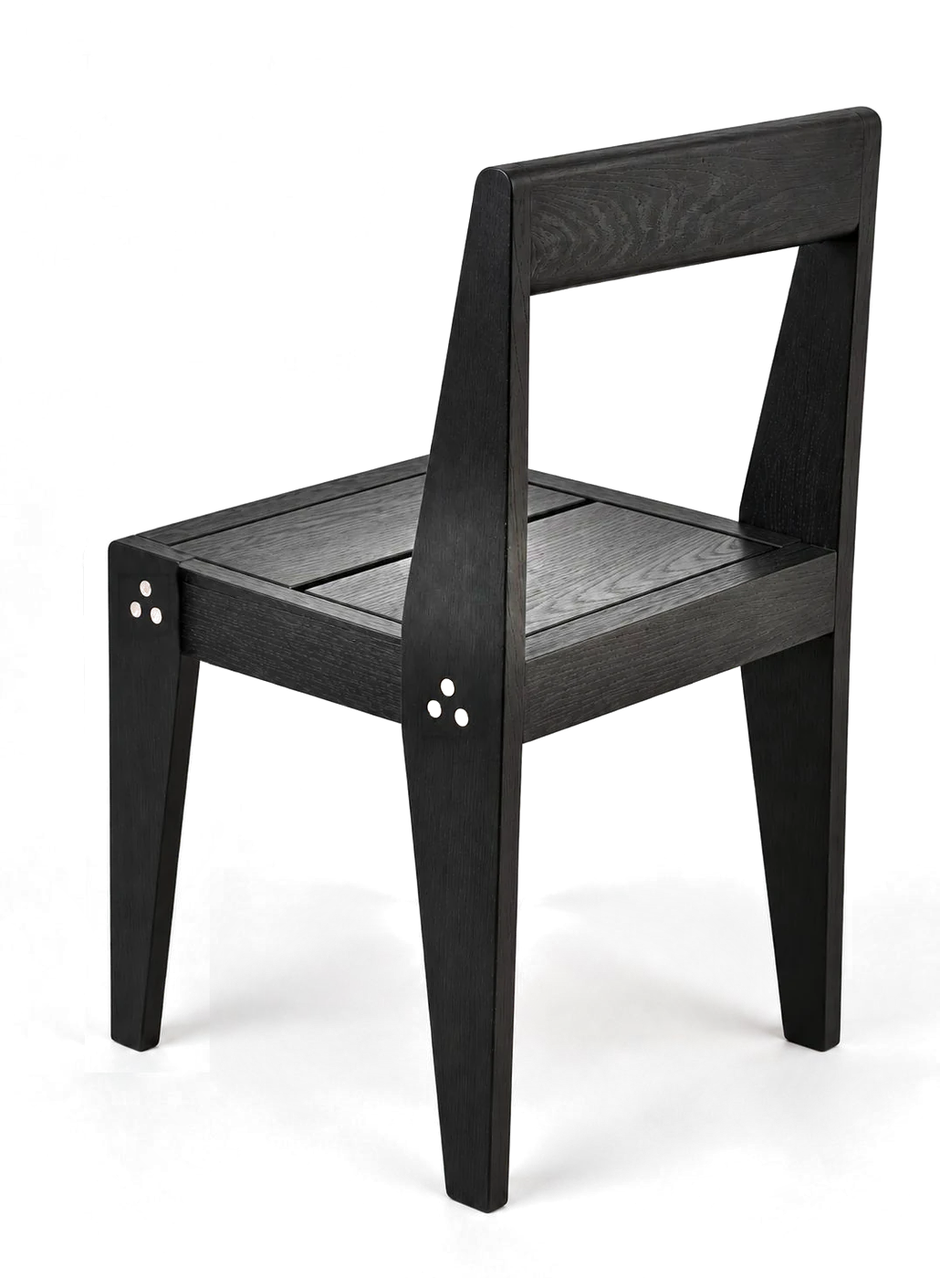
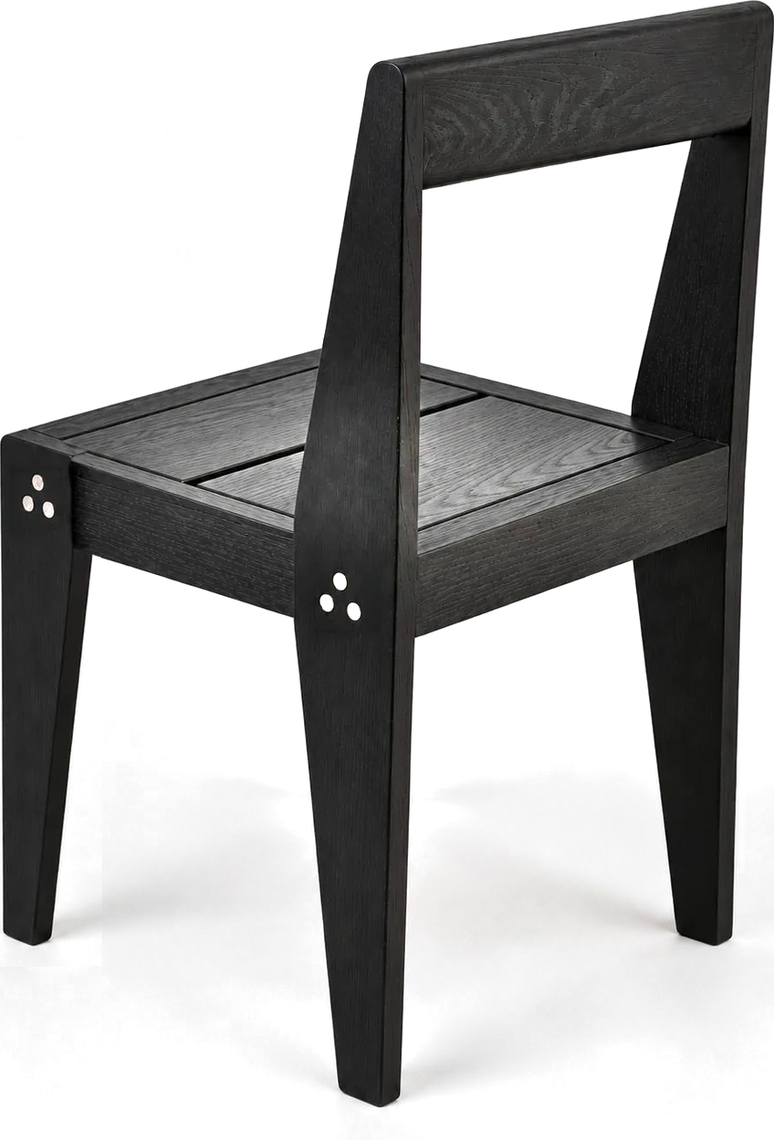
Collection: show the pieces at believable sizes relative to each other
Claude-Session: https://claude.ai/code/session_019aGK6dFBr7KVPox61mVAMt

diff --git a/collection.html b/collection.html
@@ -26,8 +26,8 @@
 .c-grid{display:grid;grid-template-columns:repeat(2,minmax(0,1fr));gap:clamp(36px,5vw,64px) clamp(16px,3vw,40px)}
 @media (min-width:900px){.c-grid{grid-template-columns:repeat(3,minmax(0,1fr))}}
 .c-piece{display:grid;grid-template-columns:auto 1fr;gap:4px 12px;text-decoration:none;color:inherit;align-content:start}
-.c-img{grid-column:1/-1;display:block;aspect-ratio:4/3;margin-bottom:14px}
-.c-img img{width:86%;height:86%;margin:7% auto 0;object-fit:contain;object-position:center bottom;display:block}
+.c-img{grid-column:1/-1;display:flex;align-items:flex-end;justify-content:center;aspect-ratio:4/3;margin-bottom:14px;padding-bottom:4%}
+.c-img img{width:86%;height:auto;max-height:90%;object-fit:contain;display:block}
 .c-n{font:500 11px/26px var(--mono);color:var(--ink-muted)}
 .c-name{font-size:clamp(22px,2.4vw,30px);line-height:1.05}
 .c-use,.c-dim{grid-column:2;font:400 12px/18px var(--mono);color:var(--ink-muted)}
@@ -38,8 +38,8 @@
 .h-grid{display:grid;grid-template-columns:repeat(2,minmax(0,1fr));gap:clamp(28px,4vw,56px) clamp(16px,3vw,40px)}
 @media (min-width:900px){.h-grid{grid-template-columns:repeat(4,minmax(0,1fr))}}
 .h-piece{display:grid;gap:12px;align-content:start;text-decoration:none;color:inherit}
-.h-img{display:block;aspect-ratio:4/3}
-.h-img img{width:86%;height:86%;margin:7% auto 0;object-fit:contain;object-position:center bottom;display:block}
+.h-img{display:flex;align-items:flex-end;justify-content:center;aspect-ratio:4/3;padding-bottom:4%}
+.h-img img{width:86%;height:auto;max-height:90%;object-fit:contain;display:block}
 .h-name{font:500 12px/16px var(--mono);letter-spacing:.08em;text-transform:uppercase}
 .h-piece:hover .h-name{text-decoration:underline;text-underline-offset:4px}
 .h-door-grid{display:grid;gap:clamp(28px,4vw,40px)}
@@ -585,7 +585,7 @@ footer{border-top:1px solid var(--ink);padding-block:48px}
  <p class="pull" style="margin-top:24px;max-width:46ch">Satu means one in Indonesian. One material, one system, one idea carried through every piece. The collection is made from repurposed teak, timber that has already lived a life, often in old joglo houses, and given another through Danish design and Indonesian hands.</p>
 </div></section>
 <section class="c-grid-sec" style="padding-top:0;border-top:0"><div class="wrap">
- <div class="c-grid"><a class="c-piece" href="the-chair.html"><span class="c-img"><img src="assets/cut-chair-rear.webp" alt="The Chair, chair in reclaimed teak with a Shou Sugi Ban finish" loading="eager"></span><span class="c-n">01</span><span class="c-name disp">The Chair</span><span class="c-use">Dining rooms, restaurants and terraces</span><span class="c-dim">H 80 / W 45 / L 45 cm</span></a><a class="c-piece" href="the-sun-lounger.html"><span class="c-img"><img src="assets/cut-sunlounger-render.webp" alt="The Sun Lounger, lounger in reclaimed teak with a Shou Sugi Ban finish" loading="eager"></span><span class="c-n">02</span><span class="c-name disp">The Sun Lounger</span><span class="c-use">Poolside and outdoors</span><span class="c-dim">H 32 / W 75 / L 211 cm</span></a><a class="c-piece" href="the-bench.html"><span class="c-img"><img src="assets/cut-bench.webp" alt="The Bench, bench in reclaimed teak with a Shou Sugi Ban finish" loading="eager"></span><span class="c-n">03</span><span class="c-name disp">The Bench</span><span class="c-use">Dining tables, terraces and halls</span><span class="c-dim">H 45 / W 206 / L 40 cm</span></a><a class="c-piece" href="the-lounge-chair.html"><span class="c-img"><img src="assets/cut-loungechair-studio.webp" alt="The Lounge Chair, lounge chair in reclaimed teak with a Shou Sugi Ban finish" loading="lazy"></span><span class="c-n">04</span><span class="c-name disp">The Lounge Chair</span><span class="c-use">Lounges, lobbies and terraces</span><span class="c-dim">H 78 / W 68 / L 60 cm</span></a><a class="c-piece" href="the-side-table.html"><span class="c-img"><img src="assets/cut-sidetable.webp" alt="The Side Table, table in reclaimed teak with a Shou Sugi Ban finish" loading="lazy"></span><span class="c-n">05</span><span class="c-name disp">The Side Table</span><span class="c-use">Poolside, terraces and lounges</span><span class="c-dim">H 32 / W 75 / L 75 cm</span></a><a class="c-piece" href="the-coffee-table.html"><span class="c-img"><img src="assets/cut-table-studio.webp" alt="The Coffee Table, table in reclaimed teak with a Shou Sugi Ban finish" loading="lazy"></span><span class="c-n">06</span><span class="c-name disp">The Coffee Table</span><span class="c-use">Lounges, lobbies and terraces</span><span class="c-dim">H 32 / W 75 / L 100 cm</span></a><a class="c-piece" href="the-table.html"><span class="c-img"><img src="assets/cut-table.webp" alt="The Table, table in reclaimed teak with a Shou Sugi Ban finish" loading="lazy"></span><span class="c-n">07</span><span class="c-name disp">The Table</span><span class="c-use">Dining rooms and restaurants</span><span class="c-dim">H 75 / W 100 / L 220 cm</span></a></div>
+ <div class="c-grid"><a class="c-piece" href="the-chair.html"><span class="c-img"><img style="width:27%" src="assets/cut-chair-rear.webp" alt="The Chair, chair in reclaimed teak with a Shou Sugi Ban finish" loading="eager"></span><span class="c-n">01</span><span class="c-name disp">The Chair</span><span class="c-use">Dining rooms, restaurants and terraces</span><span class="c-dim">H 80 / W 45 / L 45 cm</span></a><a class="c-piece" href="the-sun-lounger.html"><span class="c-img"><img style="width:83%" src="assets/cut-sunlounger-render.webp" alt="The Sun Lounger, lounger in reclaimed teak with a Shou Sugi Ban finish" loading="eager"></span><span class="c-n">02</span><span class="c-name disp">The Sun Lounger</span><span class="c-use">Poolside and outdoors</span><span class="c-dim">H 32 / W 75 / L 211 cm</span></a><a class="c-piece" href="the-bench.html"><span class="c-img"><img style="width:80%" src="assets/cut-bench.webp" alt="The Bench, bench in reclaimed teak with a Shou Sugi Ban finish" loading="eager"></span><span class="c-n">03</span><span class="c-name disp">The Bench</span><span class="c-use">Dining tables, terraces and halls</span><span class="c-dim">H 45 / W 206 / L 40 cm</span></a><a class="c-piece" href="the-lounge-chair.html"><span class="c-img"><img style="width:33%" src="assets/cut-loungechair-studio.webp" alt="The Lounge Chair, lounge chair in reclaimed teak with a Shou Sugi Ban finish" loading="lazy"></span><span class="c-n">04</span><span class="c-name disp">The Lounge Chair</span><span class="c-use">Lounges, lobbies and terraces</span><span class="c-dim">H 78 / W 68 / L 60 cm</span></a><a class="c-piece" href="the-side-table.html"><span class="c-img"><img style="width:26%" src="assets/cut-sidetable.webp" alt="The Side Table, table in reclaimed teak with a Shou Sugi Ban finish" loading="lazy"></span><span class="c-n">05</span><span class="c-name disp">The Side Table</span><span class="c-use">Poolside, terraces and lounges</span><span class="c-dim">H 32 / W 75 / L 75 cm</span></a><a class="c-piece" href="the-coffee-table.html"><span class="c-img"><img style="width:35%" src="assets/cut-table-studio.webp" alt="The Coffee Table, table in reclaimed teak with a Shou Sugi Ban finish" loading="lazy"></span><span class="c-n">06</span><span class="c-name disp">The Coffee Table</span><span class="c-use">Lounges, lobbies and terraces</span><span class="c-dim">H 32 / W 75 / L 100 cm</span></a><a class="c-piece" href="the-table.html"><span class="c-img"><img style="width:85%" src="assets/cut-table.webp" alt="The Table, table in reclaimed teak with a Shou Sugi Ban finish" loading="lazy"></span><span class="c-n">07</span><span class="c-name disp">The Table</span><span class="c-use">Dining rooms and restaurants</span><span class="c-dim">H 75 / W 100 / L 220 cm</span></a></div>
 </div></section>
 <figure class="bleed"><img src="assets/chair-light.jpg" alt="The Chair in a beam of window light, dust in the air and the grain of the seat lit up" width="1800" height="1434" loading=lazy></figure>
 <section><div class="wrap split">

diff --git a/index.html b/index.html
@@ -26,8 +26,8 @@
 .c-grid{display:grid;grid-template-columns:repeat(2,minmax(0,1fr));gap:clamp(36px,5vw,64px) clamp(16px,3vw,40px)}
 @media (min-width:900px){.c-grid{grid-template-columns:repeat(3,minmax(0,1fr))}}
 .c-piece{display:grid;grid-template-columns:auto 1fr;gap:4px 12px;text-decoration:none;color:inherit;align-content:start}
-.c-img{grid-column:1/-1;display:block;aspect-ratio:4/3;margin-bottom:14px}
-.c-img img{width:86%;height:86%;margin:7% auto 0;object-fit:contain;object-position:center bottom;display:block}
+.c-img{grid-column:1/-1;display:flex;align-items:flex-end;justify-content:center;aspect-ratio:4/3;margin-bottom:14px;padding-bottom:4%}
+.c-img img{width:86%;height:auto;max-height:90%;object-fit:contain;display:block}
 .c-n{font:500 11px/26px var(--mono);color:var(--ink-muted)}
 .c-name{font-size:clamp(22px,2.4vw,30px);line-height:1.05}
 .c-use,.c-dim{grid-column:2;font:400 12px/18px var(--mono);color:var(--ink-muted)}
@@ -38,8 +38,8 @@
 .h-grid{display:grid;grid-template-columns:repeat(2,minmax(0,1fr));gap:clamp(28px,4vw,56px) clamp(16px,3vw,40px)}
 @media (min-width:900px){.h-grid{grid-template-columns:repeat(4,minmax(0,1fr))}}
 .h-piece{display:grid;gap:12px;align-content:start;text-decoration:none;color:inherit}
-.h-img{display:block;aspect-ratio:4/3}
-.h-img img{width:86%;height:86%;margin:7% auto 0;object-fit:contain;object-position:center bottom;display:block}
+.h-img{display:flex;align-items:flex-end;justify-content:center;aspect-ratio:4/3;padding-bottom:4%}
+.h-img img{width:86%;height:auto;max-height:90%;object-fit:contain;display:block}
 .h-name{font:500 12px/16px var(--mono);letter-spacing:.08em;text-transform:uppercase}
 .h-piece:hover .h-name{text-decoration:underline;text-underline-offset:4px}
 .h-door-grid{display:grid;gap:clamp(28px,4vw,40px)}
@@ -568,7 +568,7 @@ footer{border-top:1px solid var(--ink);padding-block:48px}
 <section class="h-pieces"><div class="wrap">
  <div class="h-head"><div><span class="label eyebrow muted">Collection</span><h2 class="disp">SATU. Seven pieces, one system.</h2></div>
   <div class="h-nav"><button type="button" class="h-arrow" data-dir="-1" aria-label="Previous pieces">&#8592;</button><button type="button" class="h-arrow" data-dir="1" aria-label="Next pieces">&#8594;</button></div></div>
- <div class="h-track" id="h-track"><a class="h-piece" href="the-chair.html"><span class="h-img"><img src="assets/cut-chair-rear.webp" alt="The Chair, chair in reclaimed teak" loading="lazy"></span><span class="h-name">The Chair</span><span class="h-meta">H 80 / W 45 / L 45 cm</span></a><a class="h-piece" href="the-sun-lounger.html"><span class="h-img"><img src="assets/cut-sunlounger-render.webp" alt="The Sun Lounger, lounger in reclaimed teak" loading="lazy"></span><span class="h-name">The Sun Lounger</span><span class="h-meta">H 32 / W 75 / L 211 cm</span></a><a class="h-piece" href="the-bench.html"><span class="h-img"><img src="assets/cut-bench.webp" alt="The Bench, bench in reclaimed teak" loading="lazy"></span><span class="h-name">The Bench</span><span class="h-meta">H 45 / W 206 / L 40 cm</span></a><a class="h-piece" href="the-lounge-chair.html"><span class="h-img"><img src="assets/cut-loungechair-studio.webp" alt="The Lounge Chair, lounge chair in reclaimed teak" loading="lazy"></span><span class="h-name">The Lounge Chair</span><span class="h-meta">H 78 / W 68 / L 60 cm</span></a><a class="h-piece" href="the-side-table.html"><span class="h-img"><img src="assets/cut-sidetable.webp" alt="The Side Table, table in reclaimed teak" loading="lazy"></span><span class="h-name">The Side Table</span><span class="h-meta">H 32 / W 75 / L 75 cm</span></a><a class="h-piece" href="the-coffee-table.html"><span class="h-img"><img src="assets/cut-table-studio.webp" alt="The Coffee Table, table in reclaimed teak" loading="lazy"></span><span class="h-name">The Coffee Table</span><span class="h-meta">H 32 / W 75 / L 100 cm</span></a><a class="h-piece" href="the-table.html"><span class="h-img"><img src="assets/cut-table.webp" alt="The Table, table in reclaimed teak" loading="lazy"></span><span class="h-name">The Table</span><span class="h-meta">H 75 / W 100 / L 220 cm</span></a><a class="h-piece h-all" href="collection.html"><span class="h-img"><span class="disp">All of SATU &#8594;</span></span></a></div>
+ <div class="h-track" id="h-track"><a class="h-piece" href="the-chair.html"><span class="h-img"><img style="width:27%" src="assets/cut-chair-rear.webp" alt="The Chair, chair in reclaimed teak" loading="lazy"></span><span class="h-name">The Chair</span><span class="h-meta">H 80 / W 45 / L 45 cm</span></a><a class="h-piece" href="the-sun-lounger.html"><span class="h-img"><img style="width:83%" src="assets/cut-sunlounger-render.webp" alt="The Sun Lounger, lounger in reclaimed teak" loading="lazy"></span><span class="h-name">The Sun Lounger</span><span class="h-meta">H 32 / W 75 / L 211 cm</span></a><a class="h-piece" href="the-bench.html"><span class="h-img"><img style="width:80%" src="assets/cut-bench.webp" alt="The Bench, bench in reclaimed teak" loading="lazy"></span><span class="h-name">The Bench</span><span class="h-meta">H 45 / W 206 / L 40 cm</span></a><a class="h-piece" href="the-lounge-chair.html"><span class="h-img"><img style="width:33%" src="assets/cut-loungechair-studio.webp" alt="The Lounge Chair, lounge chair in reclaimed teak" loading="lazy"></span><span class="h-name">The Lounge Chair</span><span class="h-meta">H 78 / W 68 / L 60 cm</span></a><a class="h-piece" href="the-side-table.html"><span class="h-img"><img style="width:26%" src="assets/cut-sidetable.webp" alt="The Side Table, table in reclaimed teak" loading="lazy"></span><span class="h-name">The Side Table</span><span class="h-meta">H 32 / W 75 / L 75 cm</span></a><a class="h-piece" href="the-coffee-table.html"><span class="h-img"><img style="width:35%" src="assets/cut-table-studio.webp" alt="The Coffee Table, table in reclaimed teak" loading="lazy"></span><span class="h-name">The Coffee Table</span><span class="h-meta">H 32 / W 75 / L 100 cm</span></a><a class="h-piece" href="the-table.html"><span class="h-img"><img style="width:85%" src="assets/cut-table.webp" alt="The Table, table in reclaimed teak" loading="lazy"></span><span class="h-name">The Table</span><span class="h-meta">H 75 / W 100 / L 220 cm</span></a><a class="h-piece h-all" href="collection.html"><span class="h-img"><span class="disp">All of SATU &#8594;</span></span></a></div>
 </div></section>
 <script>(function(){var t=document.getElementById('h-track');if(!t)return;function sp(){t.style.scrollPaddingInline=getComputedStyle(t).paddingLeft;}sp();t.scrollLeft=0;window.addEventListener('resize',sp);document.querySelectorAll('.h-arrow').forEach(function(b){b.addEventListener('click',function(){t.scrollBy({left:(+b.dataset.dir)*t.clientWidth*0.8,behavior:'smooth'});});});})();</script>
 

diff --git a/contact.html b/contact.html
@@ -26,8 +26,8 @@
 .c-grid{display:grid;grid-template-columns:repeat(2,minmax(0,1fr));gap:clamp(36px,5vw,64px) clamp(16px,3vw,40px)}
 @media (min-width:900px){.c-grid{grid-template-columns:repeat(3,minmax(0,1fr))}}
 .c-piece{display:grid;grid-template-columns:auto 1fr;gap:4px 12px;text-decoration:none;color:inherit;align-content:start}
-.c-img{grid-column:1/-1;display:block;aspect-ratio:4/3;margin-bottom:14px}
-.c-img img{width:86%;height:86%;margin:7% auto 0;object-fit:contain;object-position:center bottom;display:block}
+.c-img{grid-column:1/-1;display:flex;align-items:flex-end;justify-content:center;aspect-ratio:4/3;margin-bottom:14px;padding-bottom:4%}
+.c-img img{width:86%;height:auto;max-height:90%;object-fit:contain;display:block}
 .c-n{font:500 11px/26px var(--mono);color:var(--ink-muted)}
 .c-name{font-size:clamp(22px,2.4vw,30px);line-height:1.05}
 .c-use,.c-dim{grid-column:2;font:400 12px/18px var(--mono);color:var(--ink-muted)}
@@ -38,8 +38,8 @@
 .h-grid{display:grid;grid-template-columns:repeat(2,minmax(0,1fr));gap:clamp(28px,4vw,56px) clamp(16px,3vw,40px)}
 @media (min-width:900px){.h-grid{grid-template-columns:repeat(4,minmax(0,1fr))}}
 .h-piece{display:grid;gap:12px;align-content:start;text-decoration:none;color:inherit}
-.h-img{display:block;aspect-ratio:4/3}
-.h-img img{width:86%;height:86%;margin:7% auto 0;object-fit:contain;object-position:center bottom;display:block}
+.h-img{display:flex;align-items:flex-end;justify-content:center;aspect-ratio:4/3;padding-bottom:4%}
+.h-img img{width:86%;height:auto;max-height:90%;object-fit:contain;display:block}
 .h-name{font:500 12px/16px var(--mono);letter-spacing:.08em;text-transform:uppercase}
 .h-piece:hover .h-name{text-decoration:underline;text-underline-offset:4px}
 .h-door-grid{display:grid;gap:clamp(28px,4vw,40px)}

diff --git a/faq.html b/faq.html
@@ -26,8 +26,8 @@
 .c-grid{display:grid;grid-template-columns:repeat(2,minmax(0,1fr));gap:clamp(36px,5vw,64px) clamp(16px,3vw,40px)}
 @media (min-width:900px){.c-grid{grid-template-columns:repeat(3,minmax(0,1fr))}}
 .c-piece{display:grid;grid-template-columns:auto 1fr;gap:4px 12px;text-decoration:none;color:inherit;align-content:start}
-.c-img{grid-column:1/-1;display:block;aspect-ratio:4/3;margin-bottom:14px}
-.c-img img{width:86%;height:86%;margin:7% auto 0;object-fit:contain;object-position:center bottom;display:block}
+.c-img{grid-column:1/-1;display:flex;align-items:flex-end;justify-content:center;aspect-ratio:4/3;margin-bottom:14px;padding-bottom:4%}
+.c-img img{width:86%;height:auto;max-height:90%;object-fit:contain;display:block}
 .c-n{font:500 11px/26px var(--mono);color:var(--ink-muted)}
 .c-name{font-size:clamp(22px,2.4vw,30px);line-height:1.05}
 .c-use,.c-dim{grid-column:2;font:400 12px/18px var(--mono);color:var(--ink-muted)}
@@ -38,8 +38,8 @@
 .h-grid{display:grid;grid-template-columns:repeat(2,minmax(0,1fr));gap:clamp(28px,4vw,56px) clamp(16px,3vw,40px)}
 @media (min-width:900px){.h-grid{grid-template-columns:repeat(4,minmax(0,1fr))}}
 .h-piece{display:grid;gap:12px;align-content:start;text-decoration:none;color:inherit}
-.h-img{display:block;aspect-ratio:4/3}
-.h-img img{width:86%;height:86%;margin:7% auto 0;object-fit:contain;object-position:center bottom;display:block}
+.h-img{display:flex;align-items:flex-end;justify-content:center;aspect-ratio:4/3;padding-bottom:4%}
+.h-img img{width:86%;height:auto;max-height:90%;object-fit:contain;display:block}
 .h-name{font:500 12px/16px var(--mono);letter-spacing:.08em;text-transform:uppercase}
 .h-piece:hover .h-name{text-decoration:underline;text-underline-offset:4px}
 .h-door-grid{display:grid;gap:clamp(28px,4vw,40px)}

diff --git a/hospitality.html b/hospitality.html
@@ -26,8 +26,8 @@
 .c-grid{display:grid;grid-template-columns:repeat(2,minmax(0,1fr));gap:clamp(36px,5vw,64px) clamp(16px,3vw,40px)}
 @media (min-width:900px){.c-grid{grid-template-columns:repeat(3,minmax(0,1fr))}}
 .c-piece{display:grid;grid-template-columns:auto 1fr;gap:4px 12px;text-decoration:none;color:inherit;align-content:start}
-.c-img{grid-column:1/-1;display:block;aspect-ratio:4/3;margin-bottom:14px}
-.c-img img{width:86%;height:86%;margin:7% auto 0;object-fit:contain;object-position:center bottom;display:block}
+.c-img{grid-column:1/-1;display:flex;align-items:flex-end;justify-content:center;aspect-ratio:4/3;margin-bottom:14px;padding-bottom:4%}
+.c-img img{width:86%;height:auto;max-height:90%;object-fit:contain;display:block}
 .c-n{font:500 11px/26px var(--mono);color:var(--ink-muted)}
 .c-name{font-size:clamp(22px,2.4vw,30px);line-height:1.05}
 .c-use,.c-dim{grid-column:2;font:400 12px/18px var(--mono);color:var(--ink-muted)}
@@ -38,8 +38,8 @@
 .h-grid{display:grid;grid-template-columns:repeat(2,minmax(0,1fr));gap:clamp(28px,4vw,56px) clamp(16px,3vw,40px)}
 @media (min-width:900px){.h-grid{grid-template-columns:repeat(4,minmax(0,1fr))}}
 .h-piece{display:grid;gap:12px;align-content:start;text-decoration:none;color:inherit}
-.h-img{display:block;aspect-ratio:4/3}
-.h-img img{width:86%;height:86%;margin:7% auto 0;object-fit:contain;object-position:center bottom;display:block}
+.h-img{display:flex;align-items:flex-end;justify-content:center;aspect-ratio:4/3;padding-bottom:4%}
+.h-img img{width:86%;height:auto;max-height:90%;object-fit:contain;display:block}
 .h-name{font:500 12px/16px var(--mono);letter-spacing:.08em;text-transform:uppercase}
 .h-piece:hover .h-name{text-decoration:underline;text-underline-offset:4px}
 .h-door-grid{display:grid;gap:clamp(28px,4vw,40px)}

diff --git a/in-use.html b/in-use.html
@@ -26,8 +26,8 @@
 .c-grid{display:grid;grid-template-columns:repeat(2,minmax(0,1fr));gap:clamp(36px,5vw,64px) clamp(16px,3vw,40px)}
 @media (min-width:900px){.c-grid{grid-template-columns:repeat(3,minmax(0,1fr))}}
 .c-piece{display:grid;grid-template-columns:auto 1fr;gap:4px 12px;text-decoration:none;color:inherit;align-content:start}
-.c-img{grid-column:1/-1;display:block;aspect-ratio:4/3;margin-bottom:14px}
-.c-img img{width:86%;height:86%;margin:7% auto 0;object-fit:contain;object-position:center bottom;display:block}
+.c-img{grid-column:1/-1;display:flex;align-items:flex-end;justify-content:center;aspect-ratio:4/3;margin-bottom:14px;padding-bottom:4%}
+.c-img img{width:86%;height:auto;max-height:90%;object-fit:contain;display:block}
 .c-n{font:500 11px/26px var(--mono);color:var(--ink-muted)}
 .c-name{font-size:clamp(22px,2.4vw,30px);line-height:1.05}
 .c-use,.c-dim{grid-column:2;font:400 12px/18px var(--mono);color:var(--ink-muted)}
@@ -38,8 +38,8 @@
 .h-grid{display:grid;grid-template-columns:repeat(2,minmax(0,1fr));gap:clamp(28px,4vw,56px) clamp(16px,3vw,40px)}
 @media (min-width:900px){.h-grid{grid-template-columns:repeat(4,minmax(0,1fr))}}
 .h-piece{display:grid;gap:12px;align-content:start;text-decoration:none;color:inherit}
-.h-img{display:block;aspect-ratio:4/3}
-.h-img img{width:86%;height:86%;margin:7% auto 0;object-fit:contain;object-position:center bottom;display:block}
+.h-img{display:flex;align-items:flex-end;justify-content:center;aspect-ratio:4/3;padding-bottom:4%}
+.h-img img{width:86%;height:auto;max-height:90%;object-fit:contain;display:block}
 .h-name{font:500 12px/16px var(--mono);letter-spacing:.08em;text-transform:uppercase}
 .h-piece:hover .h-name{text-decoration:underline;text-underline-offset:4px}
 .h-door-grid{display:grid;gap:clamp(28px,4vw,40px)}

diff --git a/material.html b/material.html
@@ -26,8 +26,8 @@
 .c-grid{display:grid;grid-template-columns:repeat(2,minmax(0,1fr));gap:clamp(36px,5vw,64px) clamp(16px,3vw,40px)}
 @media (min-width:900px){.c-grid{grid-template-columns:repeat(3,minmax(0,1fr))}}
 .c-piece{display:grid;grid-template-columns:auto 1fr;gap:4px 12px;text-decoration:none;color:inherit;align-content:start}
-.c-img{grid-column:1/-1;display:block;aspect-ratio:4/3;margin-bottom:14px}
-.c-img img{width:86%;height:86%;margin:7% auto 0;object-fit:contain;object-position:center bottom;display:block}
+.c-img{grid-column:1/-1;display:flex;align-items:flex-end;justify-content:center;aspect-ratio:4/3;margin-bottom:14px;padding-bottom:4%}
+.c-img img{width:86%;height:auto;max-height:90%;object-fit:contain;display:block}
 .c-n{font:500 11px/26px var(--mono);color:var(--ink-muted)}
 .c-name{font-size:clamp(22px,2.4vw,30px);line-height:1.05}
 .c-use,.c-dim{grid-column:2;font:400 12px/18px var(--mono);color:var(--ink-muted)}
@@ -38,8 +38,8 @@
 .h-grid{display:grid;grid-template-columns:repeat(2,minmax(0,1fr));gap:clamp(28px,4vw,56px) clamp(16px,3vw,40px)}
 @media (min-width:900px){.h-grid{grid-template-columns:repeat(4,minmax(0,1fr))}}
 .h-piece{display:grid;gap:12px;align-content:start;text-decoration:none;color:inherit}
-.h-img{display:block;aspect-ratio:4/3}
-.h-img img{width:86%;height:86%;margin:7% auto 0;object-fit:contain;object-position:center bottom;display:block}
+.h-img{display:flex;align-items:flex-end;justify-content:center;aspect-ratio:4/3;padding-bottom:4%}
+.h-img img{width:86%;height:auto;max-height:90%;object-fit:contain;display:block}
 .h-name{font:500 12px/16px var(--mono);letter-spacing:.08em;text-transform:uppercase}
 .h-piece:hover .h-name{text-decoration:underline;text-underline-offset:4px}
 .h-door-grid{display:grid;gap:clamp(28px,4vw,40px)}

diff --git a/mission.html b/mission.html
@@ -26,8 +26,8 @@
 .c-grid{display:grid;grid-template-columns:repeat(2,minmax(0,1fr));gap:clamp(36px,5vw,64px) clamp(16px,3vw,40px)}
 @media (min-width:900px){.c-grid{grid-template-columns:repeat(3,minmax(0,1fr))}}
 .c-piece{display:grid;grid-template-columns:auto 1fr;gap:4px 12px;text-decoration:none;color:inherit;align-content:start}
-.c-img{grid-column:1/-1;display:block;aspect-ratio:4/3;margin-bottom:14px}
-.c-img img{width:86%;height:86%;margin:7% auto 0;object-fit:contain;object-position:center bottom;display:block}
+.c-img{grid-column:1/-1;display:flex;align-items:flex-end;justify-content:center;aspect-ratio:4/3;margin-bottom:14px;padding-bottom:4%}
+.c-img img{width:86%;height:auto;max-height:90%;object-fit:contain;display:block}
 .c-n{font:500 11px/26px var(--mono);color:var(--ink-muted)}
 .c-name{font-size:clamp(22px,2.4vw,30px);line-height:1.05}
 .c-use,.c-dim{grid-column:2;font:400 12px/18px var(--mono);color:var(--ink-muted)}
@@ -38,8 +38,8 @@
 .h-grid{display:grid;grid-template-columns:repeat(2,minmax(0,1fr));gap:clamp(28px,4vw,56px) clamp(16px,3vw,40px)}
 @media (min-width:900px){.h-grid{grid-template-columns:repeat(4,minmax(0,1fr))}}
 .h-piece{display:grid;gap:12px;align-content:start;text-decoration:none;color:inherit}
-.h-img{display:block;aspect-ratio:4/3}
-.h-img img{width:86%;height:86%;margin:7% auto 0;object-fit:contain;object-position:center bottom;display:block}
+.h-img{display:flex;align-items:flex-end;justify-content:center;aspect-ratio:4/3;padding-bottom:4%}
+.h-img img{width:86%;height:auto;max-height:90%;object-fit:contain;display:block}
 .h-name{font:500 12px/16px var(--mono);letter-spacing:.08em;text-transform:uppercase}
 .h-piece:hover .h-name{text-decoration:underline;text-underline-offset:4px}
 .h-door-grid{display:grid;gap:clamp(28px,4vw,40px)}

diff --git a/passport.html b/passport.html
@@ -26,8 +26,8 @@
 .c-grid{display:grid;grid-template-columns:repeat(2,minmax(0,1fr));gap:clamp(36px,5vw,64px) clamp(16px,3vw,40px)}
 @media (min-width:900px){.c-grid{grid-template-columns:repeat(3,minmax(0,1fr))}}
 .c-piece{display:grid;grid-template-columns:auto 1fr;gap:4px 12px;text-decoration:none;color:inherit;align-content:start}
-.c-img{grid-column:1/-1;display:block;aspect-ratio:4/3;margin-bottom:14px}
-.c-img img{width:86%;height:86%;margin:7% auto 0;object-fit:contain;object-position:center bottom;display:block}
+.c-img{grid-column:1/-1;display:flex;align-items:flex-end;justify-content:center;aspect-ratio:4/3;margin-bottom:14px;padding-bottom:4%}
+.c-img img{width:86%;height:auto;max-height:90%;object-fit:contain;display:block}
 .c-n{font:500 11px/26px var(--mono);color:var(--ink-muted)}
 .c-name{font-size:clamp(22px,2.4vw,30px);line-height:1.05}
 .c-use,.c-dim{grid-column:2;font:400 12px/18px var(--mono);color:var(--ink-muted)}
@@ -38,8 +38,8 @@
 .h-grid{display:grid;grid-template-columns:repeat(2,minmax(0,1fr));gap:clamp(28px,4vw,56px) clamp(16px,3vw,40px)}
 @media (min-width:900px){.h-grid{grid-template-columns:repeat(4,minmax(0,1fr))}}
 .h-piece{display:grid;gap:12px;align-content:start;text-decoration:none;color:inherit}
-.h-img{display:block;aspect-ratio:4/3}
-.h-img img{width:86%;height:86%;margin:7% auto 0;object-fit:contain;object-position:center bottom;display:block}
+.h-img{display:flex;align-items:flex-end;justify-content:center;aspect-ratio:4/3;padding-bottom:4%}
+.h-img img{width:86%;height:auto;max-height:90%;object-fit:contain;display:block}
 .h-name{font:500 12px/16px var(--mono);letter-spacing:.08em;text-transform:uppercase}
 .h-piece:hover .h-name{text-decoration:underline;text-underline-offset:4px}
 .h-door-grid{display:grid;gap:clamp(28px,4vw,40px)}

diff --git a/the-bench.html b/the-bench.html
@@ -26,8 +26,8 @@
 .c-grid{display:grid;grid-template-columns:repeat(2,minmax(0,1fr));gap:clamp(36px,5vw,64px) clamp(16px,3vw,40px)}
 @media (min-width:900px){.c-grid{grid-template-columns:repeat(3,minmax(0,1fr))}}
 .c-piece{display:grid;grid-template-columns:auto 1fr;gap:4px 12px;text-decoration:none;color:inherit;align-content:start}
-.c-img{grid-column:1/-1;display:block;aspect-ratio:4/3;margin-bottom:14px}
-.c-img img{width:86%;height:86%;margin:7% auto 0;object-fit:contain;object-position:center bottom;display:block}
+.c-img{grid-column:1/-1;display:flex;align-items:flex-end;justify-content:center;aspect-ratio:4/3;margin-bottom:14px;padding-bottom:4%}
+.c-img img{width:86%;height:auto;max-height:90%;object-fit:contain;display:block}
 .c-n{font:500 11px/26px var(--mono);color:var(--ink-muted)}
 .c-name{font-size:clamp(22px,2.4vw,30px);line-height:1.05}
 .c-use,.c-dim{grid-column:2;font:400 12px/18px var(--mono);color:var(--ink-muted)}
@@ -38,8 +38,8 @@
 .h-grid{display:grid;grid-template-columns:repeat(2,minmax(0,1fr));gap:clamp(28px,4vw,56px) clamp(16px,3vw,40px)}
 @media (min-width:900px){.h-grid{grid-template-columns:repeat(4,minmax(0,1fr))}}
 .h-piece{display:grid;gap:12px;align-content:start;text-decoration:none;color:inherit}
-.h-img{display:block;aspect-ratio:4/3}
-.h-img img{width:86%;height:86%;margin:7% auto 0;object-fit:contain;object-position:center bottom;display:block}
+.h-img{display:flex;align-items:flex-end;justify-content:center;aspect-ratio:4/3;padding-bottom:4%}
+.h-img img{width:86%;height:auto;max-height:90%;object-fit:contain;display:block}
 .h-name{font:500 12px/16px var(--mono);letter-spacing:.08em;text-transform:uppercase}
 .h-piece:hover .h-name{text-decoration:underline;text-underline-offset:4px}
 .h-door-grid{display:grid;gap:clamp(28px,4vw,40px)}

diff --git a/the-chair.html b/the-chair.html
@@ -26,8 +26,8 @@
 .c-grid{display:grid;grid-template-columns:repeat(2,minmax(0,1fr));gap:clamp(36px,5vw,64px) clamp(16px,3vw,40px)}
 @media (min-width:900px){.c-grid{grid-template-columns:repeat(3,minmax(0,1fr))}}
 .c-piece{display:grid;grid-template-columns:auto 1fr;gap:4px 12px;text-decoration:none;color:inherit;align-content:start}
-.c-img{grid-column:1/-1;display:block;aspect-ratio:4/3;margin-bottom:14px}
-.c-img img{width:86%;height:86%;margin:7% auto 0;object-fit:contain;object-position:center bottom;display:block}
+.c-img{grid-column:1/-1;display:flex;align-items:flex-end;justify-content:center;aspect-ratio:4/3;margin-bottom:14px;padding-bottom:4%}
+.c-img img{width:86%;height:auto;max-height:90%;object-fit:contain;display:block}
 .c-n{font:500 11px/26px var(--mono);color:var(--ink-muted)}
 .c-name{font-size:clamp(22px,2.4vw,30px);line-height:1.05}
 .c-use,.c-dim{grid-column:2;font:400 12px/18px var(--mono);color:var(--ink-muted)}
@@ -38,8 +38,8 @@
 .h-grid{display:grid;grid-template-columns:repeat(2,minmax(0,1fr));gap:clamp(28px,4vw,56px) clamp(16px,3vw,40px)}
 @media (min-width:900px){.h-grid{grid-template-columns:repeat(4,minmax(0,1fr))}}
 .h-piece{display:grid;gap:12px;align-content:start;text-decoration:none;color:inherit}
-.h-img{display:block;aspect-ratio:4/3}
-.h-img img{width:86%;height:86%;margin:7% auto 0;object-fit:contain;object-position:center bottom;display:block}
+.h-img{display:flex;align-items:flex-end;justify-content:center;aspect-ratio:4/3;padding-bottom:4%}
+.h-img img{width:86%;height:auto;max-height:90%;object-fit:contain;display:block}
 .h-name{font:500 12px/16px var(--mono);letter-spacing:.08em;text-transform:uppercase}
 .h-piece:hover .h-name{text-decoration:underline;text-underline-offset:4px}
 .h-door-grid{display:grid;gap:clamp(28px,4vw,40px)}

diff --git a/the-coffee-table.html b/the-coffee-table.html
@@ -26,8 +26,8 @@
 .c-grid{display:grid;grid-template-columns:repeat(2,minmax(0,1fr));gap:clamp(36px,5vw,64px) clamp(16px,3vw,40px)}
 @media (min-width:900px){.c-grid{grid-template-columns:repeat(3,minmax(0,1fr))}}
 .c-piece{display:grid;grid-template-columns:auto 1fr;gap:4px 12px;text-decoration:none;color:inherit;align-content:start}
-.c-img{grid-column:1/-1;display:block;aspect-ratio:4/3;margin-bottom:14px}
-.c-img img{width:86%;height:86%;margin:7% auto 0;object-fit:contain;object-position:center bottom;display:block}
+.c-img{grid-column:1/-1;display:flex;align-items:flex-end;justify-content:center;aspect-ratio:4/3;margin-bottom:14px;padding-bottom:4%}
+.c-img img{width:86%;height:auto;max-height:90%;object-fit:contain;display:block}
 .c-n{font:500 11px/26px var(--mono);color:var(--ink-muted)}
 .c-name{font-size:clamp(22px,2.4vw,30px);line-height:1.05}
 .c-use,.c-dim{grid-column:2;font:400 12px/18px var(--mono);color:var(--ink-muted)}
@@ -38,8 +38,8 @@
 .h-grid{display:grid;grid-template-columns:repeat(2,minmax(0,1fr));gap:clamp(28px,4vw,56px) clamp(16px,3vw,40px)}
 @media (min-width:900px){.h-grid{grid-template-columns:repeat(4,minmax(0,1fr))}}
 .h-piece{display:grid;gap:12px;align-content:start;text-decoration:none;color:inherit}
-.h-img{display:block;aspect-ratio:4/3}
-.h-img img{width:86%;height:86%;margin:7% auto 0;object-fit:contain;object-position:center bottom;display:block}
+.h-img{display:flex;align-items:flex-end;justify-content:center;aspect-ratio:4/3;padding-bottom:4%}
+.h-img img{width:86%;height:auto;max-height:90%;object-fit:contain;display:block}
 .h-name{font:500 12px/16px var(--mono);letter-spacing:.08em;text-transform:uppercase}
 .h-piece:hover .h-name{text-decoration:underline;text-underline-offset:4px}
 .h-door-grid{display:grid;gap:clamp(28px,4vw,40px)}
